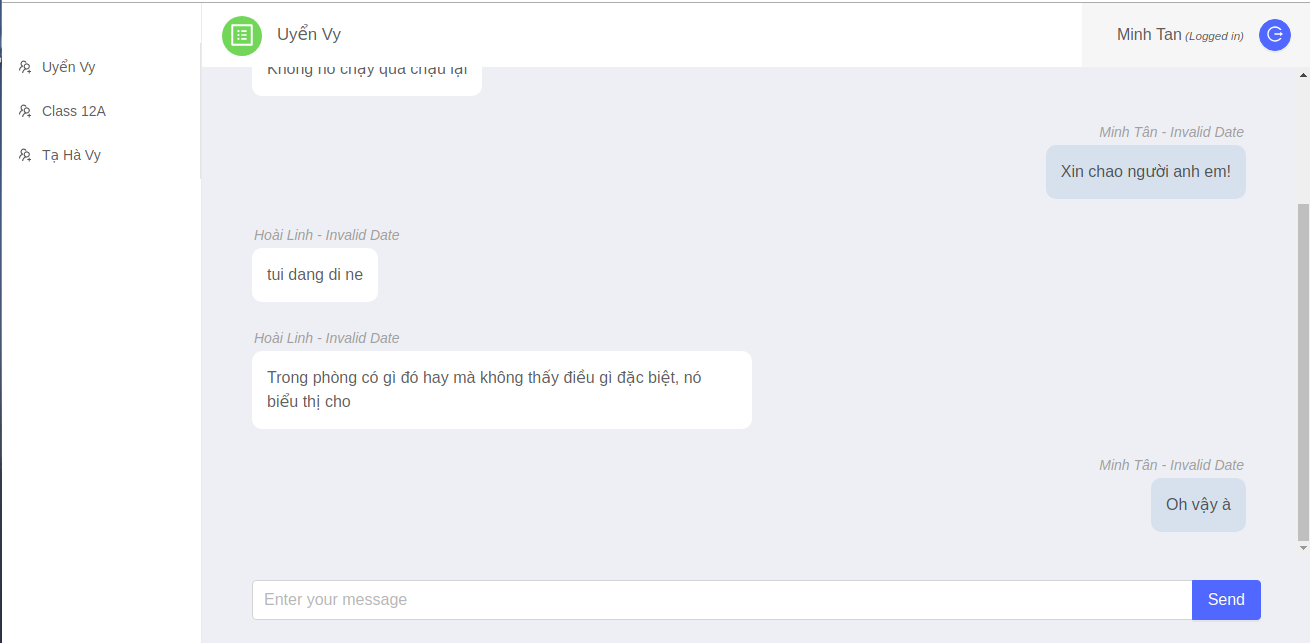
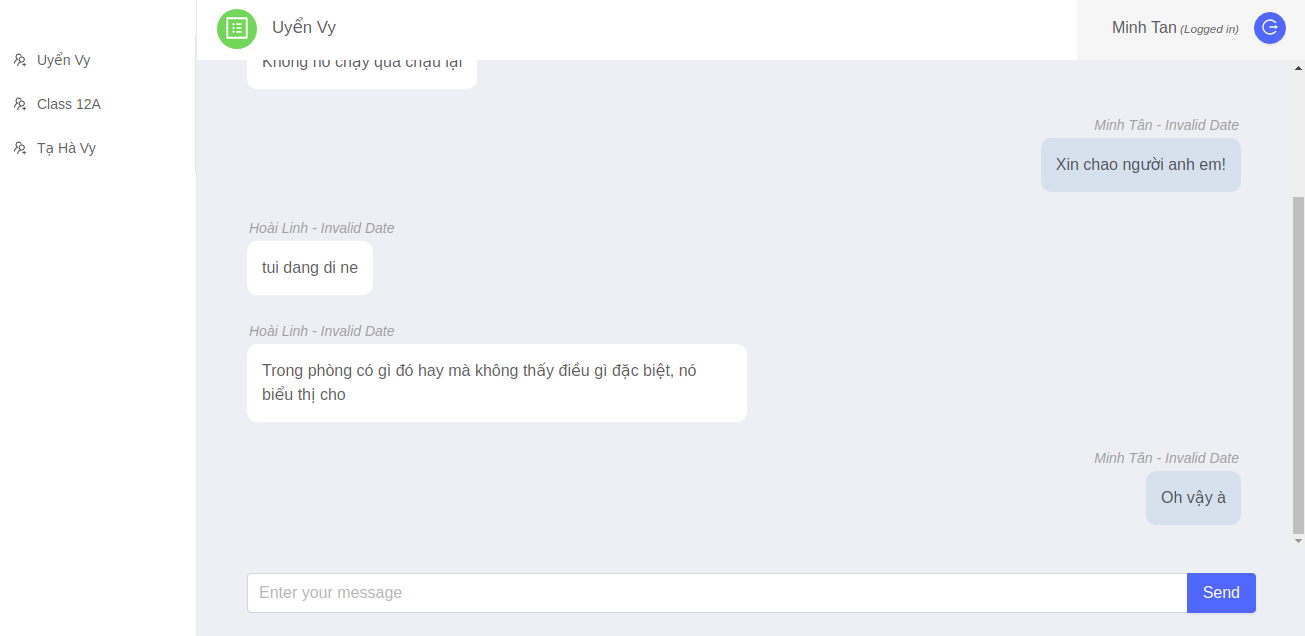
Update Readme

diff --git a/README.md b/README.md
@@ -6,13 +6,13 @@ Simple frontend Messenger/ Zalo chat application use ReactJS.
 
 - Show list of conversations.
 - Show message list of each conversation.
+- *[updating]*
 
 ## Techniques used
 
 - [ReactJS](https://reactjs.org/): is a JavaScript library for building user interfaces. It is maintained by Facebook and a community of individual developers and companies. React can be used as a base in the development of single-page applications.
 - [Redux - Thunk middleware](https://redux.js.org/): a predictable state container for JavaScript apps. Redux makes it easy to manage the state of your application.
 - [Ant.design](https://ant.design/docs/react/introduce): following the Ant Design specification, we developed a React UI library *antd* that contains a set of high quality components and demos for building rich, interactive user interfaces.
-
 
 ## Installation
 
@@ -24,5 +24,5 @@ Simple frontend Messenger/ Zalo chat application use ReactJS.
 
 ## Screenshot
 
-![chat-app-reactjs-screenshot](./assets/chat-app-reactjs-screenshot.png)
+<img src="./assets/chat-app-reactjs-screenshot.png" height="500" >
 
